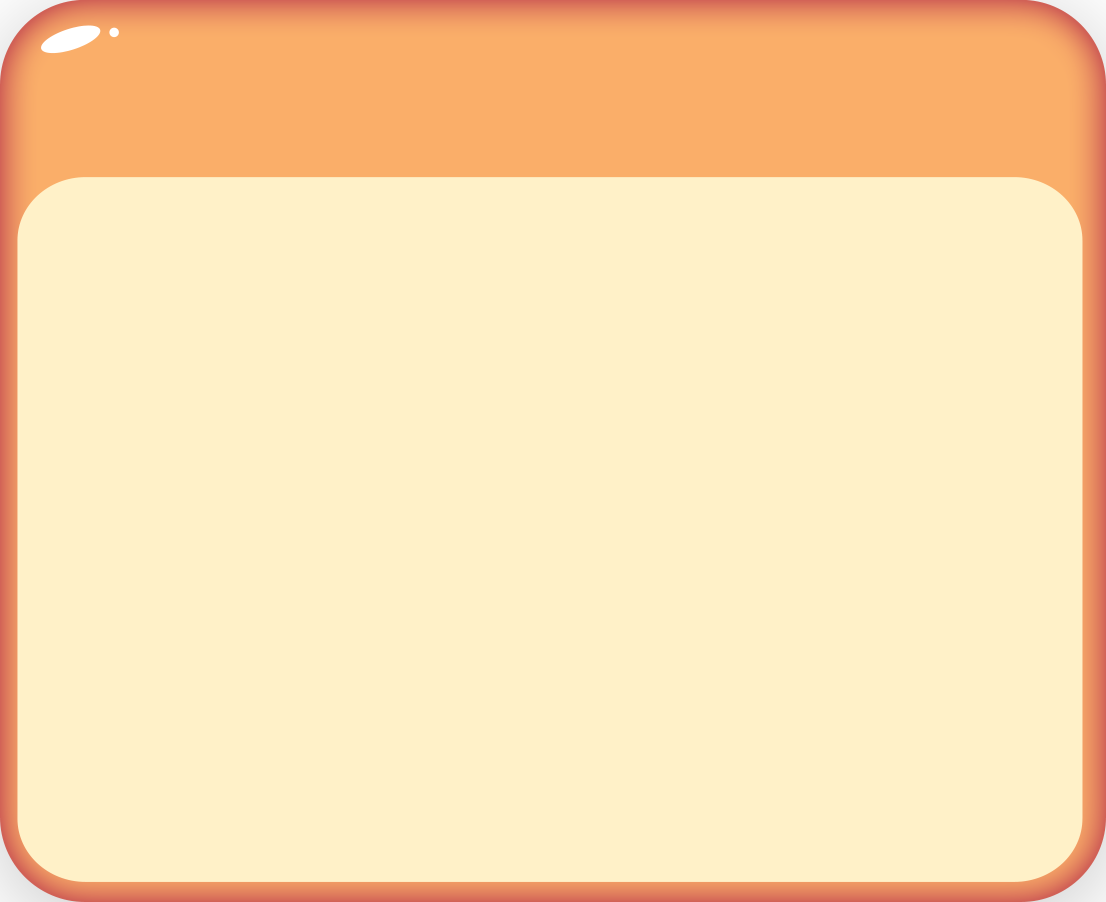
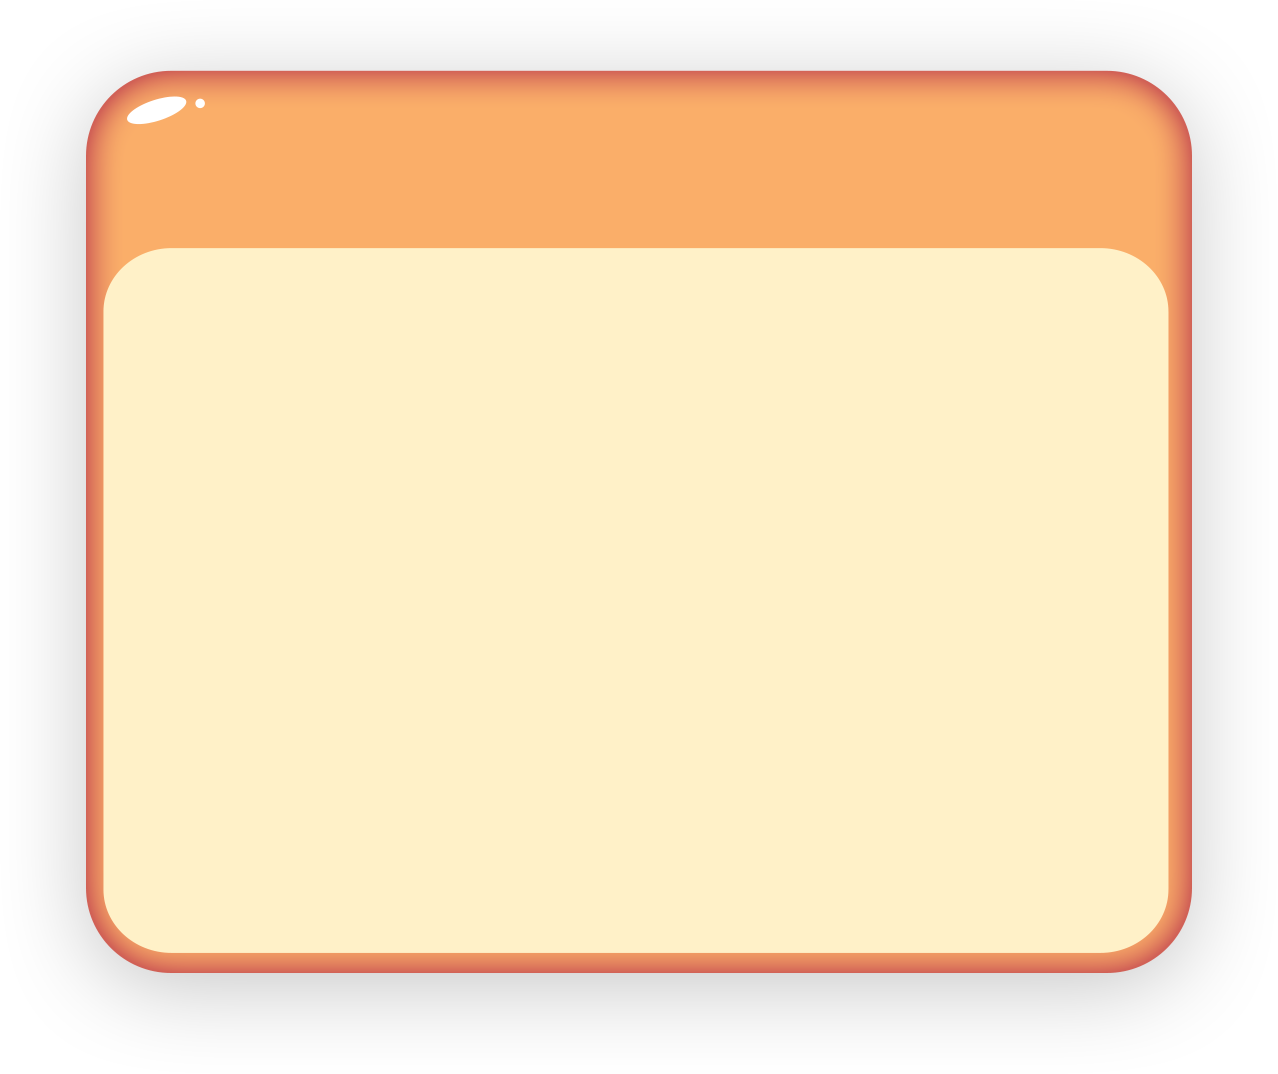
welcome style Modified

diff --git a/packages/client/src/components/popStar/index.module.css b/packages/client/src/components/popStar/index.module.css
@@ -3,8 +3,8 @@
   top: 50%;
   left: 50%;
   transform: translate(-50%, -50%);
-  width: 440px;
-  height: 320px;
+  width: 500px;
+  height: 350px;
   padding: 40px;
   border: none;
   background-image: url("../../images/welcome/welcome.png");
@@ -25,12 +25,15 @@ p {
 
 .title {
   font-weight: 700;
-  font-size: 20px;
+  font-size: 22px;
   line-height: 23.04px;
   color: #ffffff;
-  letter-spacing: 5px;
-  text-shadow: 2px 2px 5px rgba(0, 0, 0, 0.5); /* 添加黑色阴影 */
-  text-align: center; /* 居中文本 */
+  letter-spacing: 2px;
+  text-shadow: 2px 2px 5px rgba(49, 49, 49, 0.5); /* 添加黑色阴影 */
+  display: flex;
+  align-items: center;
+  justify-content: center;
+  margin: 15px;
 }
 
 
@@ -44,9 +47,9 @@ p {
   height: 200px;
   display: block;
   justify-content: center;
-  align-items: center;
-  line-height: 2.5em; /* 行高为 1.5 倍字体大小 */
-
+  line-height: 2em; 
+  margin-left: 50px;
+  margin-top: -15px;
 }
 
 .copywritingFirst {
@@ -60,21 +63,30 @@ p {
 .copywritingThree {
   font-weight: 600;
   font-size: 22px;
-  /* line-height: 20.48px; */
   letter-spacing: 4px;
   color: #000000;
   
 }
 
 .copywritingTwo {
-  font-weight: 400;
-  font-size: 20px;
+  font-weight: 700;
+  font-size: 18px;
   line-height: 5px;
   letter-spacing: 3px;
   color: #020202;
-  /* font-size: 15px; */
   font-family: "AdobeHeitiStd-Regular";
-  
+}
+
+.copywritingTwobox{
+  margin-top: 10px;
+}
+
+.copywritingTwoyo{
+  font-weight: 700;
+  font-size: 18px;
+  line-height: 5px;
+  letter-spacing: 3px;
+  font-family: "AdobeHeitiStd-Regular";
 }
 
 .copywritingFour {
@@ -87,20 +99,20 @@ p {
 }
 
 .btnPlay {
-  width: 400px;
+  width: 380px;
   height: 50px;
   background-color: #fff1c8;
-  /* gap: 10px; */
   opacity: 0px;
   border: none;
   background-image: url("../../images/welcome/playnormal.png");
   background-size: 100% 100%;
   background-position: center;
+  align-items: center;
   position: absolute; 
-  top: 88%; 
+  top: 80%; 
   left: 50%; 
   transform: translate(-50%, -50%);
-  font-size: 20px;
+  font-size: 23px;
   font-weight: 700;
   line-height: 24px;
   letter-spacing: 0.1em;
@@ -108,12 +120,12 @@ p {
   color: #ffffff;
   transition: font-size 0.3s ease; 
   text-shadow: 2px 2px 5px rgba(0, 0, 0, 0.5);
-
+  text-transform: uppercase;
 }
 
 .btnPlay:hover {
   color: #ffffff;
-  font-size: 23px; 
+  font-size: 26px; 
 }
 
 .btnPlay:active {

diff --git a/packages/client/src/components/popStar/index.tsx b/packages/client/src/components/popStar/index.tsx
@@ -49,10 +49,11 @@ export default function PopStar({ setPopStar, playFun, onTopUpClick, playFuntop,
           to eliminate all the materials.{" "}
         </span>
         <br />
-        <span className={style.copywritingTwo}>You'll be rewarded with
-          <span className={style.copywritingThree}> 150 $bugs</span>
+        <div className={style.copywritingTwobox}>
+        <span className={style.copywritingTwoyo}>You'll be rewarded with
+          <span className={style.copywritingThree}> 150 $BUGS</span>
         </span>
-        <span className={style.copywritingTwo}>
+        <span className={style.copywritingTwoyo}>
           {" "}
           for completing the game.
           <br />
@@ -60,6 +61,7 @@ export default function PopStar({ setPopStar, playFun, onTopUpClick, playFuntop,
         </span>
         {/* <a href="https://thiscursedmachine.fun/" target="_blank" rel="noopener noreferrer" className={style.copywritingFour}> This Cursed Machine</a> */}
         {/* <span className={style.copywritingTwo}>.</span> */}
+        </div>
       </div>
       <ConnectButton.Custom>
         {({

diff --git a/packages/client/src/components/BoxPrompt/index.module.css b/packages/client/src/components/BoxPrompt/index.module.css
@@ -1449,9 +1449,7 @@ p {
 }
 
 .fontNum {
-  /* font-size: 22px; */
   line-height: 28.16px;
-  /* width: 68px; */
   height: 28px;
   font-weight: 700;
   color: #ffffff;
@@ -1490,7 +1488,6 @@ p {
   &:hover {
     color: #ffffff;
     font-size: 22px;
-    /* 悬停时字体变大 */
   }
 
   &:active {
@@ -1519,7 +1516,6 @@ p {
 }
 
 .fontbugs {
-  /* margin-left: 5px; */
   font-size: 14px;
   line-height: 28px;
   width: 118px;
@@ -1610,7 +1606,6 @@ p {
   transform: rotate(3600deg);
   -webkit-transition: -webkit-transform 5s linear;
   transition: transform 5s linear;
-  /* width: 100%; */
   height: 100%;
 }
 
@@ -1620,7 +1615,6 @@ p {
   align-items: center;
   font-family: "AdobeHeitiStd-Regular2";
   font-size: 20px;
-  /* margin-top: ; */
 }
 
 .fontNumyo {

diff --git a/packages/client/src/app.module.css b/packages/client/src/app.module.css
@@ -6,20 +6,17 @@
   top: 50%;
   left: 50%;
   transform: translate(-50%, -50%);
-  background-color: rgba(207, 241, 214, 0.5);
   text-align: center;
   text-transform: uppercase;
-  border: none;
   color: #26737d;
-  border-radius: 10px;
   font-weight: 500;
+  border: none;
+  letter-spacing: 1px;
   text-shadow:
-    1px 1px 0 #ffffff,
-    -2px -1px 0 #ffffff,
-    0 0 5px rgba(207, 241, 214, 0.8),
-    0 0 10px rgba(207, 241, 214, 0.6),
-    0 0 15px rgba(207, 241, 214, 0.4);
-  box-shadow: 0 0 20px 10px rgba(197, 253, 207, 0.5);
+    0 0 5px rgba(184, 245, 200, 0.8),
+    0 0 10px rgba(191, 241, 205, 0.6),
+    0 0 15px rgba(185, 244, 201, 0.4);
+  border-radius: 10px;
 }
 
 
